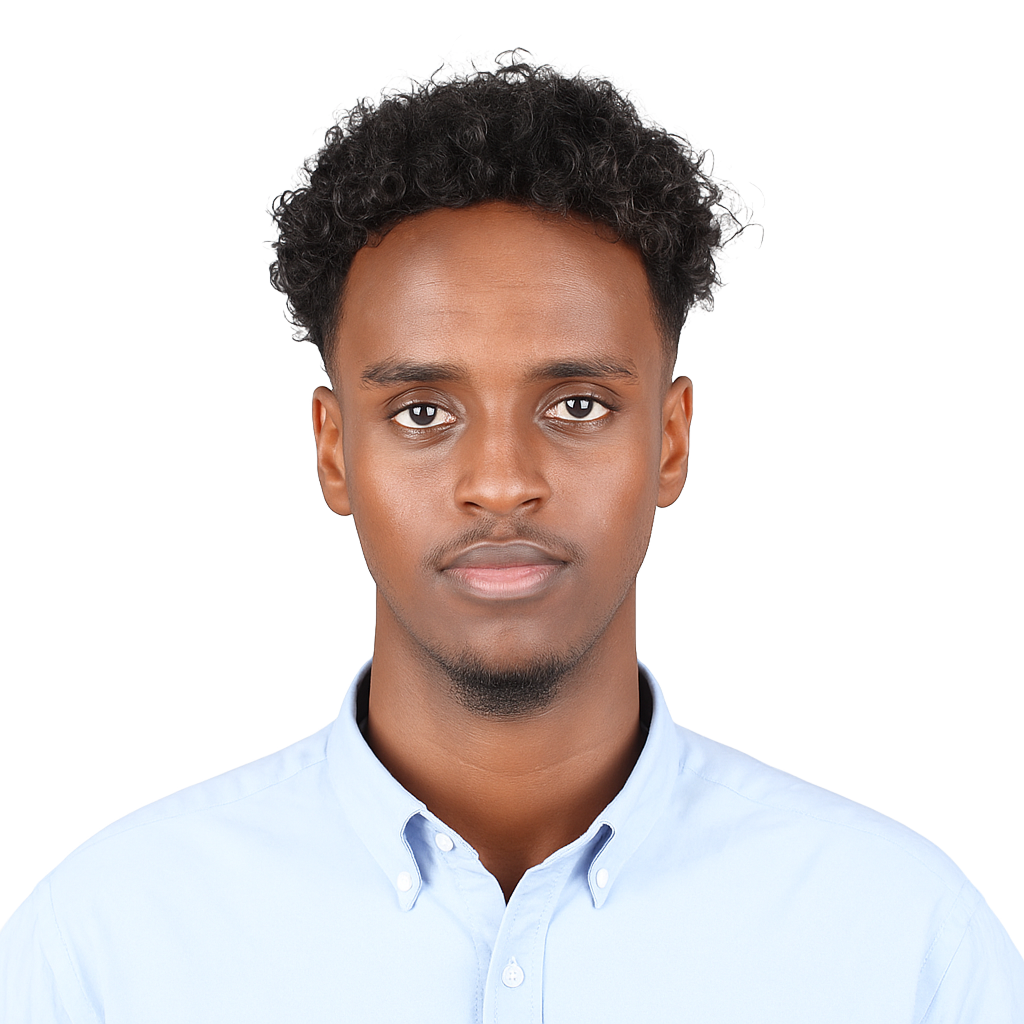
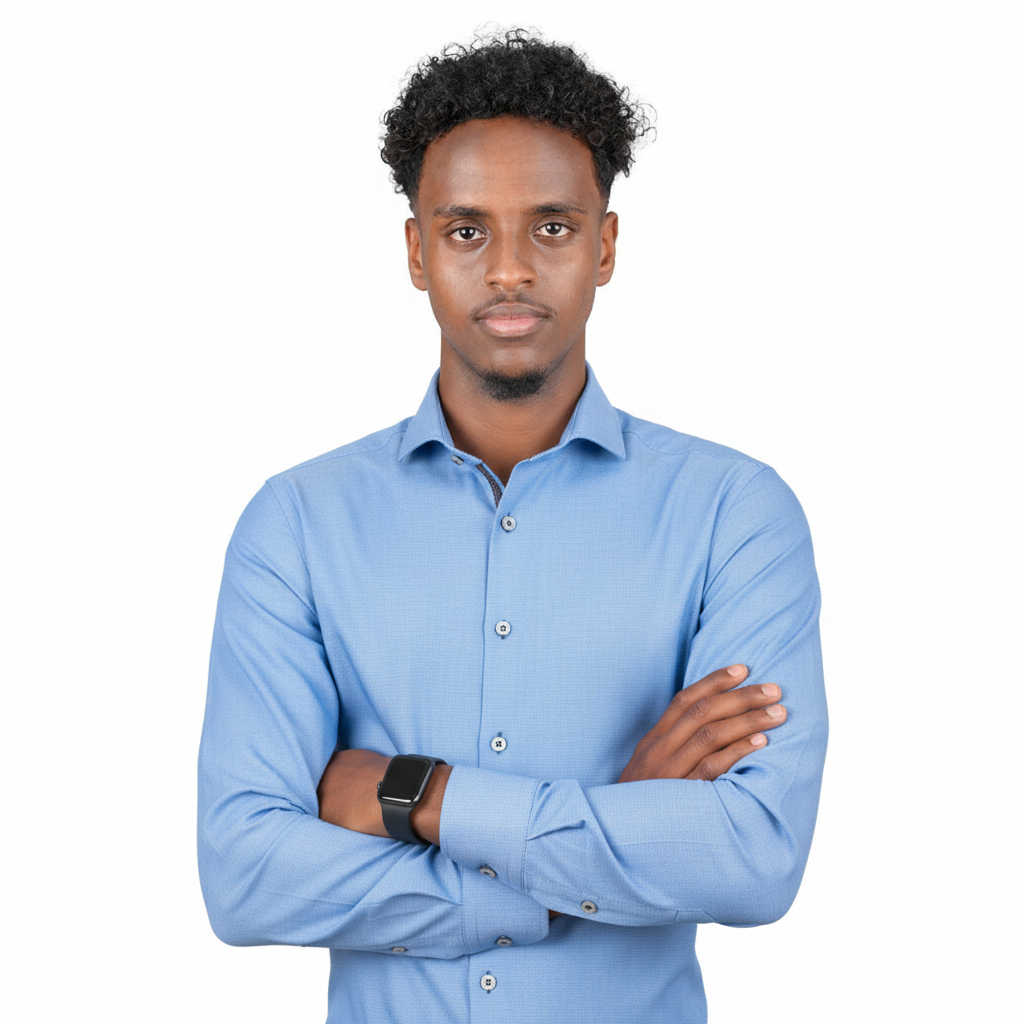
Images added

diff --git a/src/pages/HomePage.jsx b/src/pages/HomePage.jsx
@@ -1,7 +1,7 @@
 import React, { useState } from "react";
 import me from "../assets/me.png";
 import Navbar from "../components/Navbar";
-import Kooshin from "../assets/Kooshin.jpeg";
+import Kooshin from "../assets/kooshin.png";
 import Button from "../components/Button";
 import { Link } from "react-router-dom";
 import { techStack } from "../constant/data";
@@ -12,8 +12,8 @@ const HomePage = () => {
   const [emailMessage, setEmailMessage] = useState("");
   return (
     <>
-      <div>
-        <div className="">
+      <div className="mb-32">
+        <div className="mx-auto max-w-7xl px-4">
           <div className="mx-auto max-w-7xl mt-4 md:mt-16 px-4 flex flex-col md:flex-row justify-between items-center gap-12">
             <div className="text-start md:text-left max-w-xl">
               <span className="text-xl leading-loose md:leading-loose md:text-2xl font-light px-2 rounded-md text-gray-600 border-4 border-blue-500">
@@ -63,8 +63,8 @@ const HomePage = () => {
               </div>
             </div>
 
-            <div className="p-4 rounded-full  z-10 overflow-hidden inline-block">
-              <img src={me} alt="me" className="rounded-full object-cover" />
+            <div className=" z-10 inline-block">
+              <img src={me} alt="me" className="rounded-full md:ml-40 object-cover  " />
             </div>
           </div>
 
@@ -73,11 +73,11 @@ const HomePage = () => {
             <h3 className="font-medium text-gray-500 text-center mt-10">
               Special Stacks
             </h3>
-            <div className="mt-6 flex flex-wrap gap-4 justify-center md:flex-row md:justify-center md:mx-auto max-w-7xl px-4 md:space-x-16 brightness-0 opacity-40">
+            <div className="mt-6 flex flex-wrap  justify-center md:flex-row md:justify-center md:mx-auto max-w-7xl px-4 md:space-x-16 brightness-0 opacity-40">
               {techStack.map((tech) => {
                 const Icon = tech.icon; // ✅ get the React Icon component
                 return (
-                  <div key={tech.id} className="w-10 h-10 md:w-20 md:h-20">
+                  <div key={tech.id} className="w-10 h-10 md:w-12 md:h-12">
                     <Icon className="w-full h-full" />{" "}
                     {/* render as component */}
                   </div>
@@ -88,7 +88,7 @@ const HomePage = () => {
         </div>
       </div>
       {/* ABout section */}
-      <div className="mb-16">
+      <div className="mb-24">
         <div className="mx-auto max-w-7xl px-4">
           <h3 className="font-meduim text-center mb-12 text-blue-500">
             About me

diff --git a/src/components/Navbar.jsx b/src/components/Navbar.jsx
@@ -18,26 +18,12 @@ const Navbar = () => {
         onClick={() => setIsOpen(false)}
         className="flex items-center"
       >
-        <img src={logo} alt="Logo" className="h-24 w-24 rounded-full" />
+        <img src={logo} alt="Logo" className="h-32 w-32 rounded-full" />
       </Link>
 
-      <div className="hidden md:flex items-center space-x-6">
-        {navigation.map((item) => (
-          <NavLink
-            key={item.id}
-            to={item.href}
-            className={({ isActive }) =>
-              isActive
-                ? "text-md font-medium text-blue-500 underline underline-offset-8"
-                : "text-md font-medium text-gray-600 hover:text-blue-500"
-            }
-          >
-            {item.name}
-          </NavLink>
-        ))}
-      </div>
+     
 
-      <button className="md:hidden relative z-50" onClick={toggleMenuHandler}>
+      <button className=" relative z-50" onClick={toggleMenuHandler}>
         {isOpen ? (
           <HiOutlineMinus className="size-8 text-gray-800" />
         ) : (
@@ -46,7 +32,7 @@ const Navbar = () => {
       </button>
 
       {isOpen && (
-        <div className="absolute top-20 right-0 w-60 h-80 bg-white/30 backdrop-blur-lg p-4 flex flex-col items-center space-y-4 md:hidden shadow-md z-40 rounded-b-2xl">
+        <div className="absolute top-20 right-0 w-60 h-80 bg-white/30 backdrop-blur-lg p-4 flex flex-col items-center space-y-4  shadow-md z-40 rounded-b-2xl">
           {navigation.map((item) => (
             <NavLink
               key={item.id}
